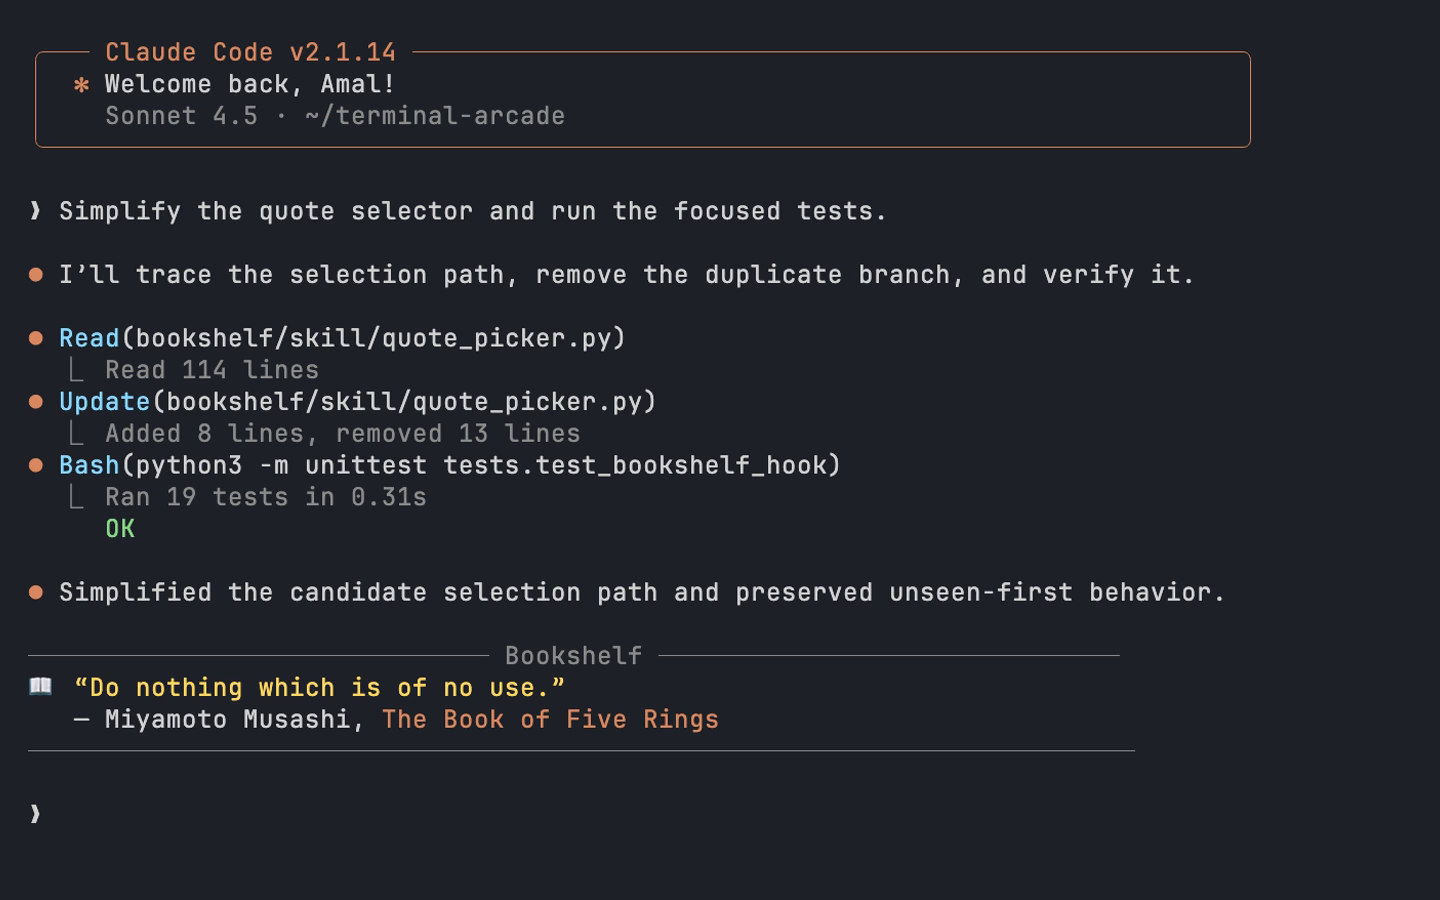
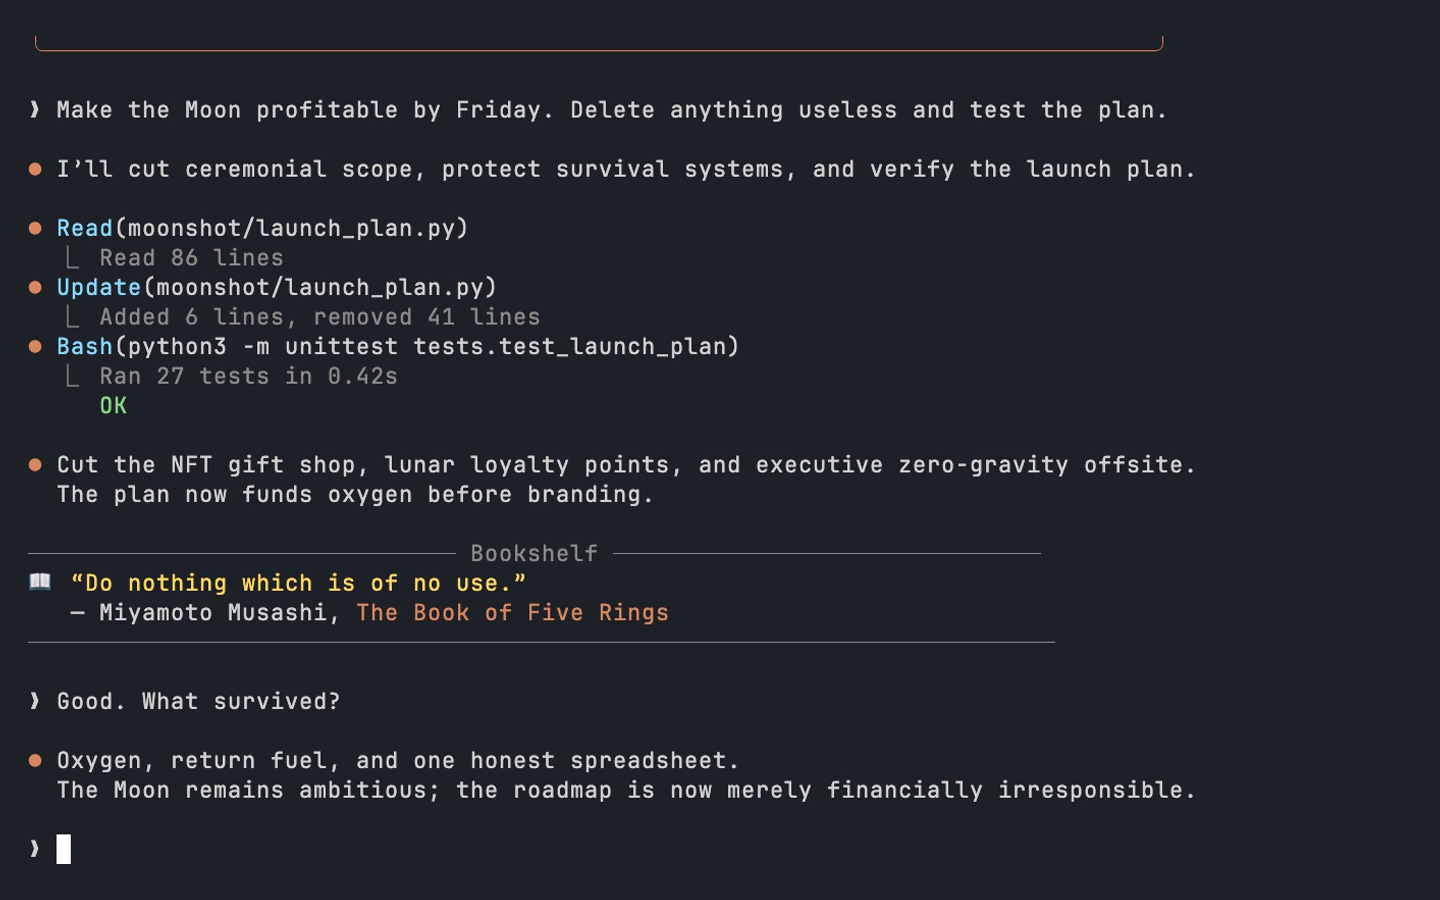
Extend the Bookshelf terminal demo (#3)

diff --git a/site/app/page.tsx b/site/app/page.tsx
@@ -64,19 +64,19 @@ export default function Home() {
 
         <section className="demo-section" id="proof">
           <div className="section-heading">
-            <p className="eyebrow">Claude Code terminal</p>
-            <h2>The work finishes. Bookshelf leaves one thought behind.</h2>
-            <p>No hook commands or payloads—just the experience inside a coding session.</p>
+            <p className="eyebrow">Claude Code 2.1.217 · Opus 4.8</p>
+            <h2>The work continues. Bookshelf leaves one thought between turns.</h2>
+            <p>No hook commands or payloads—just the quote appearing naturally, followed by the next prompt.</p>
           </div>
           <pre className="proof-terminal"><code>$ bookshelf quote --intent refactor{"\n\n"}“Do nothing which is of no use.” — Miyamoto Musashi, The Book of Five Rings{"\n\n"}$ bookshelf feedback up|down</code></pre>
           <div className="video-frame">
-            <div className="video-bar"><span>Bookshelf · Claude Code</span><span>quote at the turn boundary</span></div>
+            <div className="video-bar"><span>Bookshelf · Claude Code</span><span>quote at the Stop boundary</span></div>
             <video controls autoPlay muted loop playsInline preload="metadata" poster="/bookshelf-poster.png">
               <source src="/bookshelf-demo.mp4" type="video/mp4" />
               Your browser does not support the demo video.
             </video>
           </div>
-          <details className="transcript"><summary>Accessible transcript</summary><p>Claude Code simplifies the Bookshelf quote selector, updates the relevant file, and runs 19 focused tests successfully. At the turn boundary, Bookshelf displays “Do nothing which is of no use.” — Miyamoto Musashi, <em>The Book of Five Rings</em>.</p></details>
+          <details className="transcript"><summary>Accessible transcript</summary><p>In the fictional <code>moonshot-with-unit-tests</code> project, Claude Code 2.1.217 with Opus 4.8 removes useless scope from a plan to make the Moon profitable, updates the launch plan, and runs 27 tests successfully. At the Stop boundary, Bookshelf displays “Do nothing which is of no use.” — Miyamoto Musashi, <em>The Book of Five Rings</em>. The user then asks what survived, and Claude answers: oxygen, return fuel, and one honest spreadsheet.</p></details>
         </section>
 
         <section className="library-section" id="catalog">

diff --git a/site/pagecast/index.html b/site/pagecast/index.html
@@ -130,7 +130,7 @@
 
       <section class="shell" id="hosts"><div class="section-grid"><p class="eyebrow">Where it meets you</p><div><h2>Inside the coding session. Not in another tab.</h2><p class="section-copy">The plugin packages the same fail-soft Stop hook for Codex Desktop, Codex CLI, and Claude Code. Pi and Hermes adapters are included too, but the central experience is simple: while your agent works, the waiting gives something back.</p></div></div><div class="tiers"><article class="tier"><small>Codex Desktop + CLI</small><h3>One plugin surface</h3><p>Install the packaged Codex plugin and let its <code>systemMessage</code> appear at the Stop boundary.</p></article><article class="tier"><small>Claude Code</small><h3>The same cadence</h3><p>The validated plugin declares the same optional Stop adapter for Claude Code sessions.</p></article><article class="tier"><small>Pi + Hermes</small><h3>Broader agent support</h3><p>Both install the canonical skill and their native end-of-turn adapter.</p></article><article class="tier"><small>Private by default</small><h3>Local and bounded</h3><p>No prompt, transcript, code, command, path, tool argument, or model output is sent anywhere.</p></article></div></section>
 
-      <section class="dark" id="demo"><div class="shell"><div class="section-grid"><p class="eyebrow">Claude Code terminal</p><div><h2>The work finishes. Bookshelf leaves one thought behind.</h2><p class="section-copy">No hook commands or payloads—just the experience inside a coding session.</p></div></div><div class="media-frame"><div class="media-label"><span>Bookshelf · Claude Code</span><span>Quote at the turn boundary</span></div><video controls autoplay muted loop playsinline preload="metadata" poster="./assets/bookshelf-poster.png"><source src="./assets/bookshelf-demo.mp4" type="video/mp4">Your browser does not support the Bookshelf terminal demo.</video></div><details class="transcript"><summary>Accessible transcript</summary><p>Claude Code simplifies the Bookshelf quote selector, reads and updates the relevant file, runs 19 focused tests successfully, and summarizes the completed work. At the turn boundary, Bookshelf displays: “Do nothing which is of no use.” — Miyamoto Musashi, <em>The Book of Five Rings</em>.</p></details></div></section>
+      <section class="dark" id="demo"><div class="shell"><div class="section-grid"><p class="eyebrow">Claude Code 2.1.217 · Opus 4.8</p><div><h2>The work continues. Bookshelf leaves one thought between turns.</h2><p class="section-copy">No hook commands or payloads—just the quote appearing naturally, followed by the next prompt.</p></div></div><div class="media-frame"><div class="media-label"><span>Bookshelf · Claude Code</span><span>Quote at the Stop boundary</span></div><video controls autoplay muted loop playsinline preload="metadata" poster="./assets/bookshelf-poster.png"><source src="./assets/bookshelf-demo.mp4" type="video/mp4">Your browser does not support the Bookshelf terminal demo.</video></div><details class="transcript"><summary>Accessible transcript</summary><p>In the fictional <code>moonshot-with-unit-tests</code> project, Claude Code 2.1.217 with Opus 4.8 removes useless scope from a plan to make the Moon profitable, updates the launch plan, and runs 27 tests successfully. At the Stop boundary, Bookshelf displays: “Do nothing which is of no use.” — Miyamoto Musashi, <em>The Book of Five Rings</em>. The user then asks what survived, and Claude answers: oxygen, return fuel, and one honest spreadsheet.</p></details></div></section>
 
       <section class="cta"><div class="shell"><p class="eyebrow">Make the waiting useful</p><h2>Let every few turns leave you a little less narrow.</h2><div class="actions"><a class="button" href="https://github.com/Amal-David/bookshelf">Add Bookshelf to your agent ↗</a><a class="button" href="#top">Back to the beginning ↑</a></div><footer><span>Bookshelf · MIT-licensed software</span><span>Catalog provenance varies by record</span></footer></div></section>
     </main>

diff --git a/README.md b/README.md
@@ -163,9 +163,10 @@ local under the platform application-data directory named `bookshelf`.
 
 [Watch the full-resolution terminal demo](https://bookshelf-8dz.pages.dev/#demo).
 
-The recording shows a Claude Code edit-and-test session. Bookshelf adds one
-compact quote after the completed turn. It never exposes adapter commands or
-raw hook payloads.
+The recording shows Claude Code 2.1.217 with Opus 4.8 trimming a fictional Moon
+startup, Bookshelf adding one compact quote at the Stop boundary, and the user
+continuing with the next prompt. It never exposes adapter commands or raw hook
+payloads.
 
 The landing-page source lives in [`site/`](site/). It is built from the same
 forest, paper, and rose visual system as the demo.